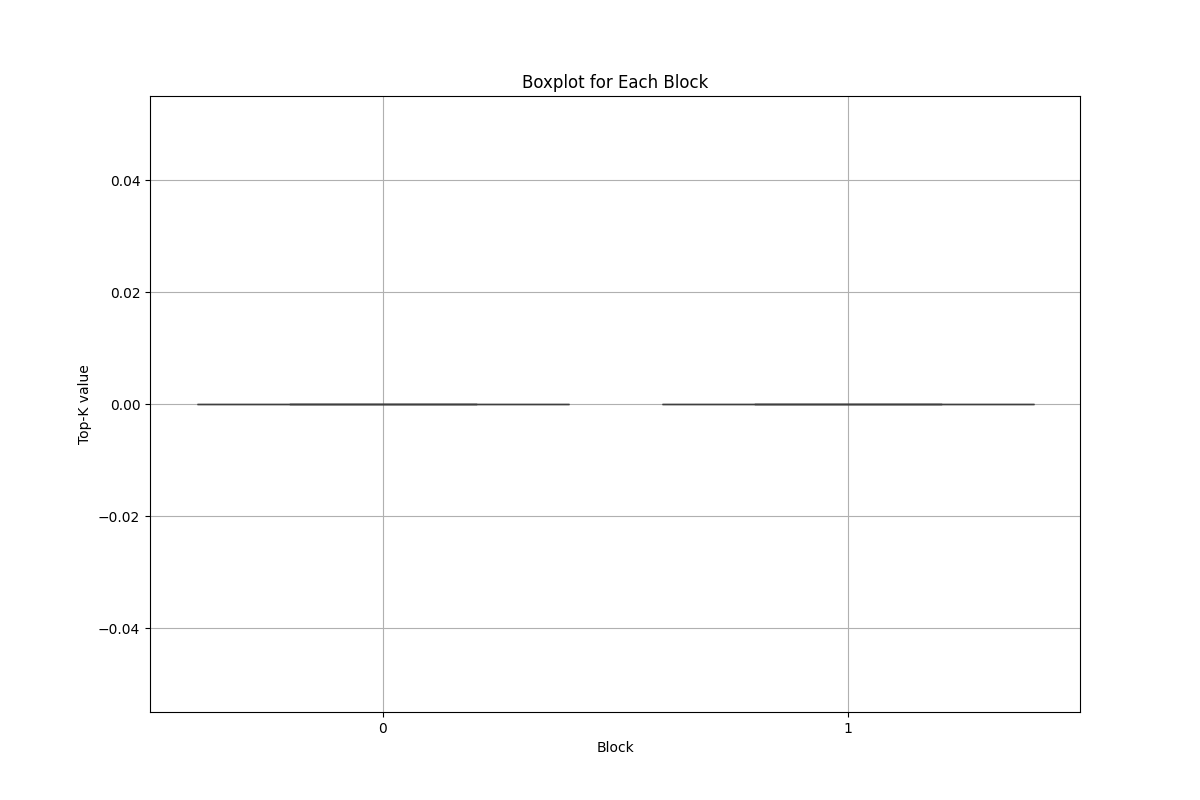
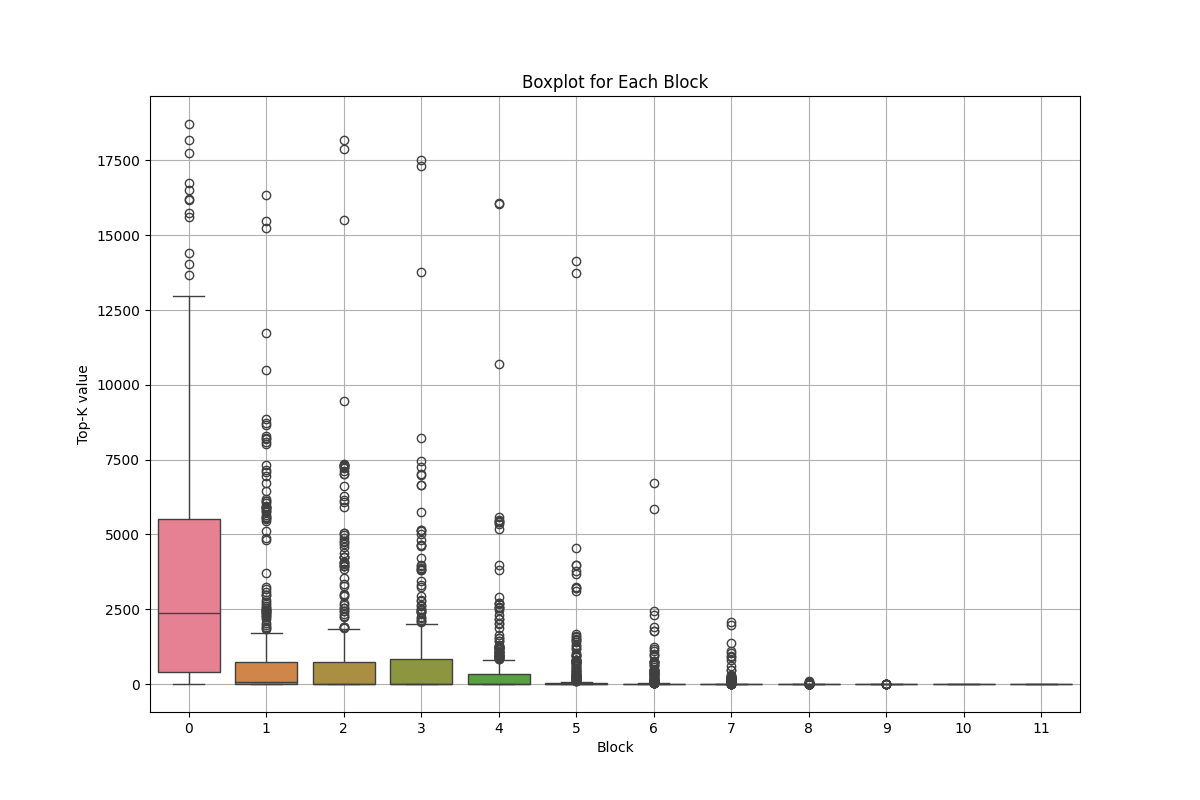
Added confidence values across blocks.

diff --git a/run_question_answering.py b/run_question_answering.py
@@ -621,6 +621,7 @@ def main(model_args, data_args, training_args, additional_args, model_cls, train
         metrics = trainer.evaluate(max_length=max_length, num_beams=num_beams, metric_key_prefix="eval")
 
         data = model.decoder.graph_top_k_list
+        data_conf = model.decoder.graph_top_k_confidence
 
         max_length = max(len(arr) for arr in data)
 
@@ -630,9 +631,16 @@ def main(model_args, data_args, training_args, additional_args, model_cls, train
                       mode='constant',
                       constant_values=np.nan)
                for arr in data]
+        
+        padded_conf = [np.pad(np.array(arr, dtype=float),  # Convert array to float
+                      (0, max_length - len(arr)),
+                      mode='constant',
+                      constant_values=np.nan)
+               for arr in data_conf]
 
         # Convert the list of arrays into a single NumPy array
         padded_array = np.array(padded_data)
+        padded_conf_array = np.array(padded_conf)
 
         # Converting the array to a DataFrame for easier handling in seaborn
         df = pd.DataFrame(padded_array)
@@ -648,21 +656,32 @@ def main(model_args, data_args, training_args, additional_args, model_cls, train
 
         # Compute the mean of the first column
         mean_block = np.nanmean(padded_array, axis=0)
-        min_block = np.nanmin(padded_array, axis=0)
-        max_block = np.nanmax(padded_array, axis=0)
+        mean_conf_block = np.nanmean(padded_conf_array, axis=0)
+        # min_block = np.nanmin(padded_array, axis=0)
+        # max_block = np.nanmax(padded_array, axis=0)
 
         # Plotting
         blocks = np.arange(mean_block.size)
 
         plt.figure(figsize=(10, 6))
         plt.plot(blocks, mean_block, label='Mean Top-K rank', color='midnightblue')
-        plt.fill_between(blocks, min_block, max_block, color='lightblue', alpha=0.5, label='Min/Max Range')
         plt.title('Mean, Max and Min top-k rank over blocks')
         plt.xlabel('Blocks')
         plt.ylabel('Top-K rank')
         plt.legend()
         plt.grid(True)
         plt.savefig("mean_topk_rank_eval.png")
+
+        plt.figure(figsize=(10, 6))
+        plt.plot(blocks, mean_conf_block, label='Mean Top-K conf', color='red', linestyle='dashed')
+        plt.title('Confidence of top-1 rank over blocks')
+        plt.xlabel('Blocks')
+        plt.ylabel('Highest Softmax Confidence')
+        plt.legend()
+        plt.grid(True)
+        plt.savefig("conf_graph.png")
+
+
 
         # This is to plot all the lines, but it is not recommended for large datasets
         # Plotting each array

diff --git a/models/deploying_t5.py b/models/deploying_t5.py
@@ -548,6 +548,7 @@ class DeployT5Stack(T5Stack):
     def __init__(self, config, embed_tokens=None):
         super().__init__(config, embed_tokens)
         self.graph_top_k_list = []
+        self.graph_top_k_confidence = []
         self.top_k_indices = None
         
         self.embed_tokens = embed_tokens
@@ -1088,25 +1089,36 @@ class DeployT5Stack(T5Stack):
         if len(previous_logits) > 0:
             # Get the top-1 index of last block.
             index_top_1 = torch.topk(previous_logits[-1], 1)[1][0][0][0].item()
+            #print(torch.softmax(previous_logits[-1], dim=-1).shape)
+            confidence = torch.max(torch.softmax(previous_logits[-1], dim=-1), dim=-1)[0].item()
 
             # Initialize a list to store ranks at each layer
             ranks_at_layers = []
+            confidences_at_layers = []
 
             # Loop over previous layers in reverse order, stopping at the first layer
             for i in range(len(previous_logits) - 1, -1, -1):
                 # Get the sorted indices for this layer's logits
-                sorted_indices = torch.argsort(previous_logits[i], descending=True)
+                sorted_indices = torch.argsort(previous_logits[i][-1], descending=True)
 
                 # Find the rank of the top-1 index of the last block in the sorted indices of block i
                 rank = np.where(sorted_indices.cpu() == index_top_1)[-1]
-
+                conf = torch.max(torch.softmax(previous_logits[i], dim=-1), dim=-1)[0].item()
+                #print(i ,rank, conf)
                 # Store the rank positions
                 ranks_at_layers.append(rank[0])
+                confidences_at_layers.append(conf)
+                
+
 
             ranks_at_layers.reverse() # Reverse the list to have the ranks in the correct order
             ranks_at_layers.append(0) # Append 0 to the end of the list to represent the rank at the last layer
 
+            confidences_at_layers.reverse() # Reverse the list to have the ranks in the correct order
+            confidences_at_layers.append(confidence) # Append 0 to the end of the list to represent the rank at the last layer
+
             self.graph_top_k_list.append(ranks_at_layers) # Append the ranks at each layer to the list of ranks
+            self.graph_top_k_confidence.append(confidences_at_layers) # Append the ranks at each layer to the list of ranks
 
         if self.config.use_synchronize: torch.cuda.synchronize()
         start = datetime.datetime.now()
